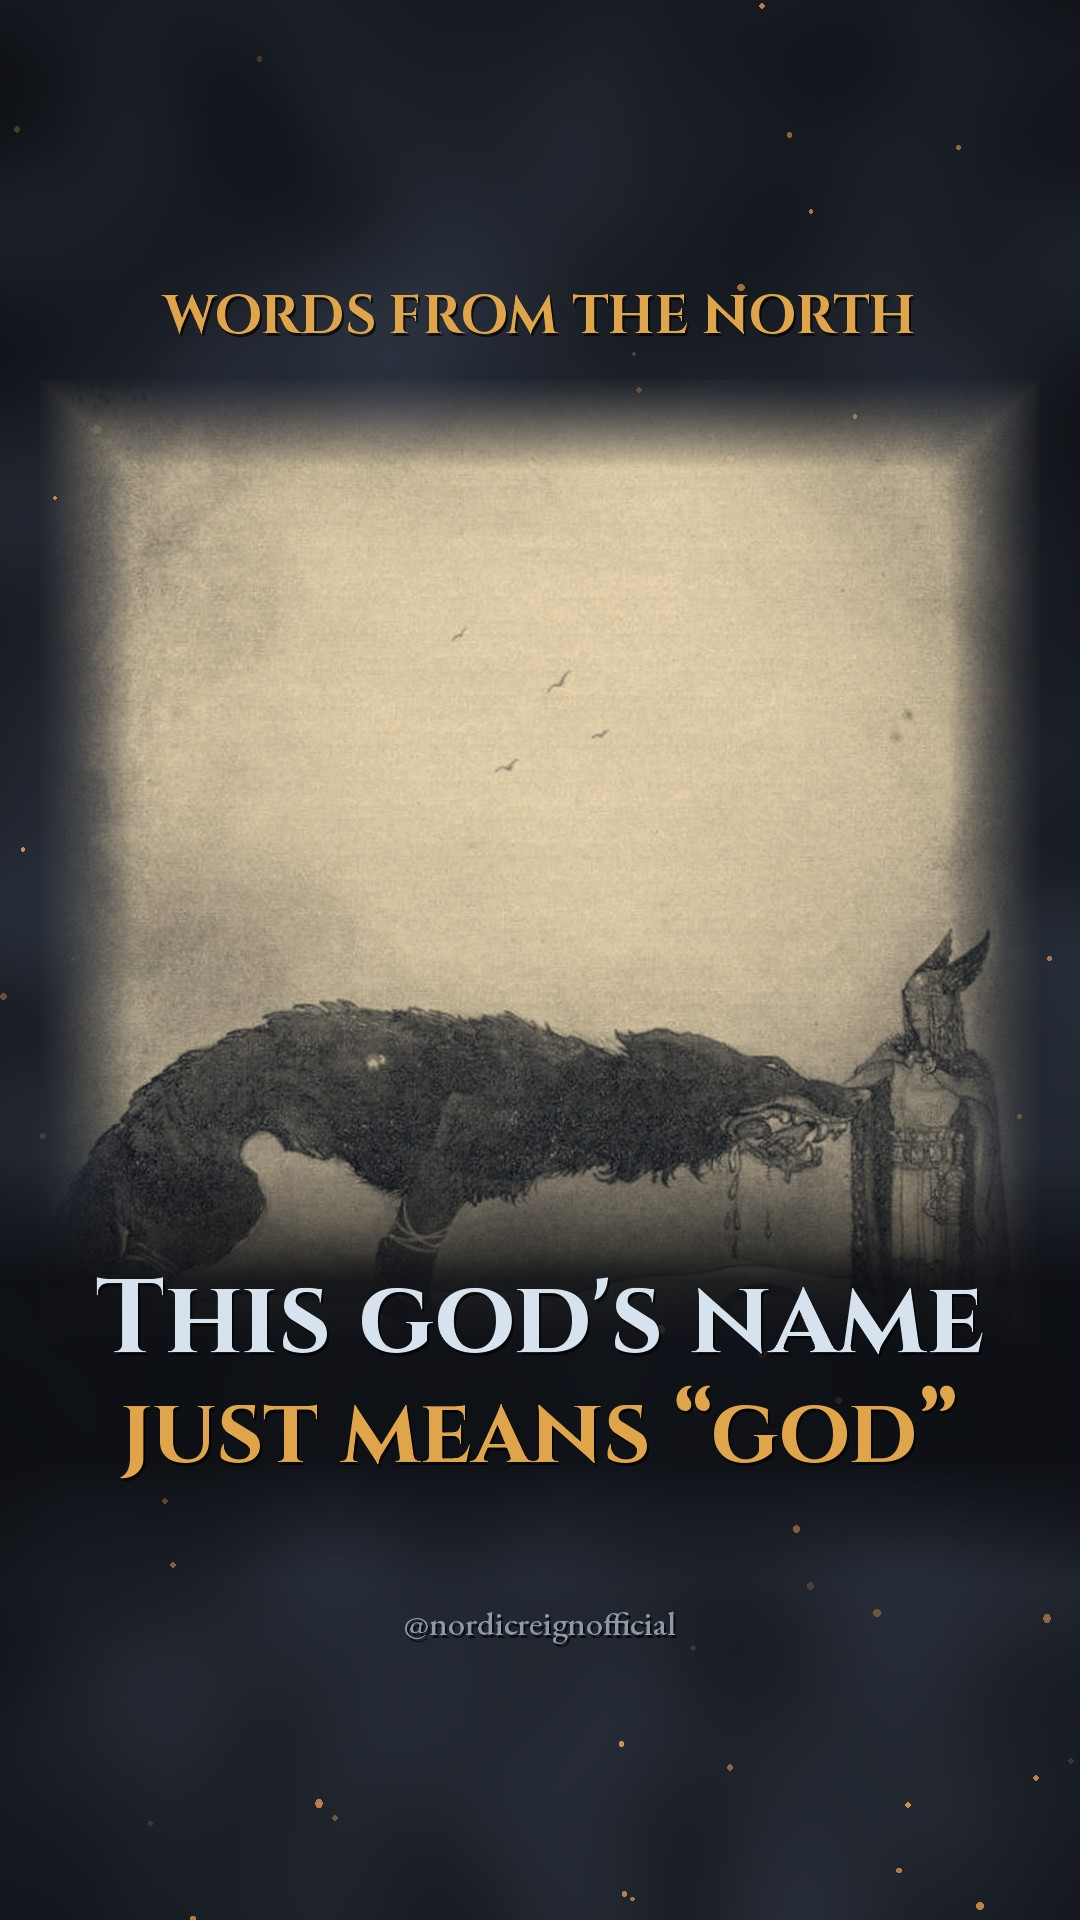
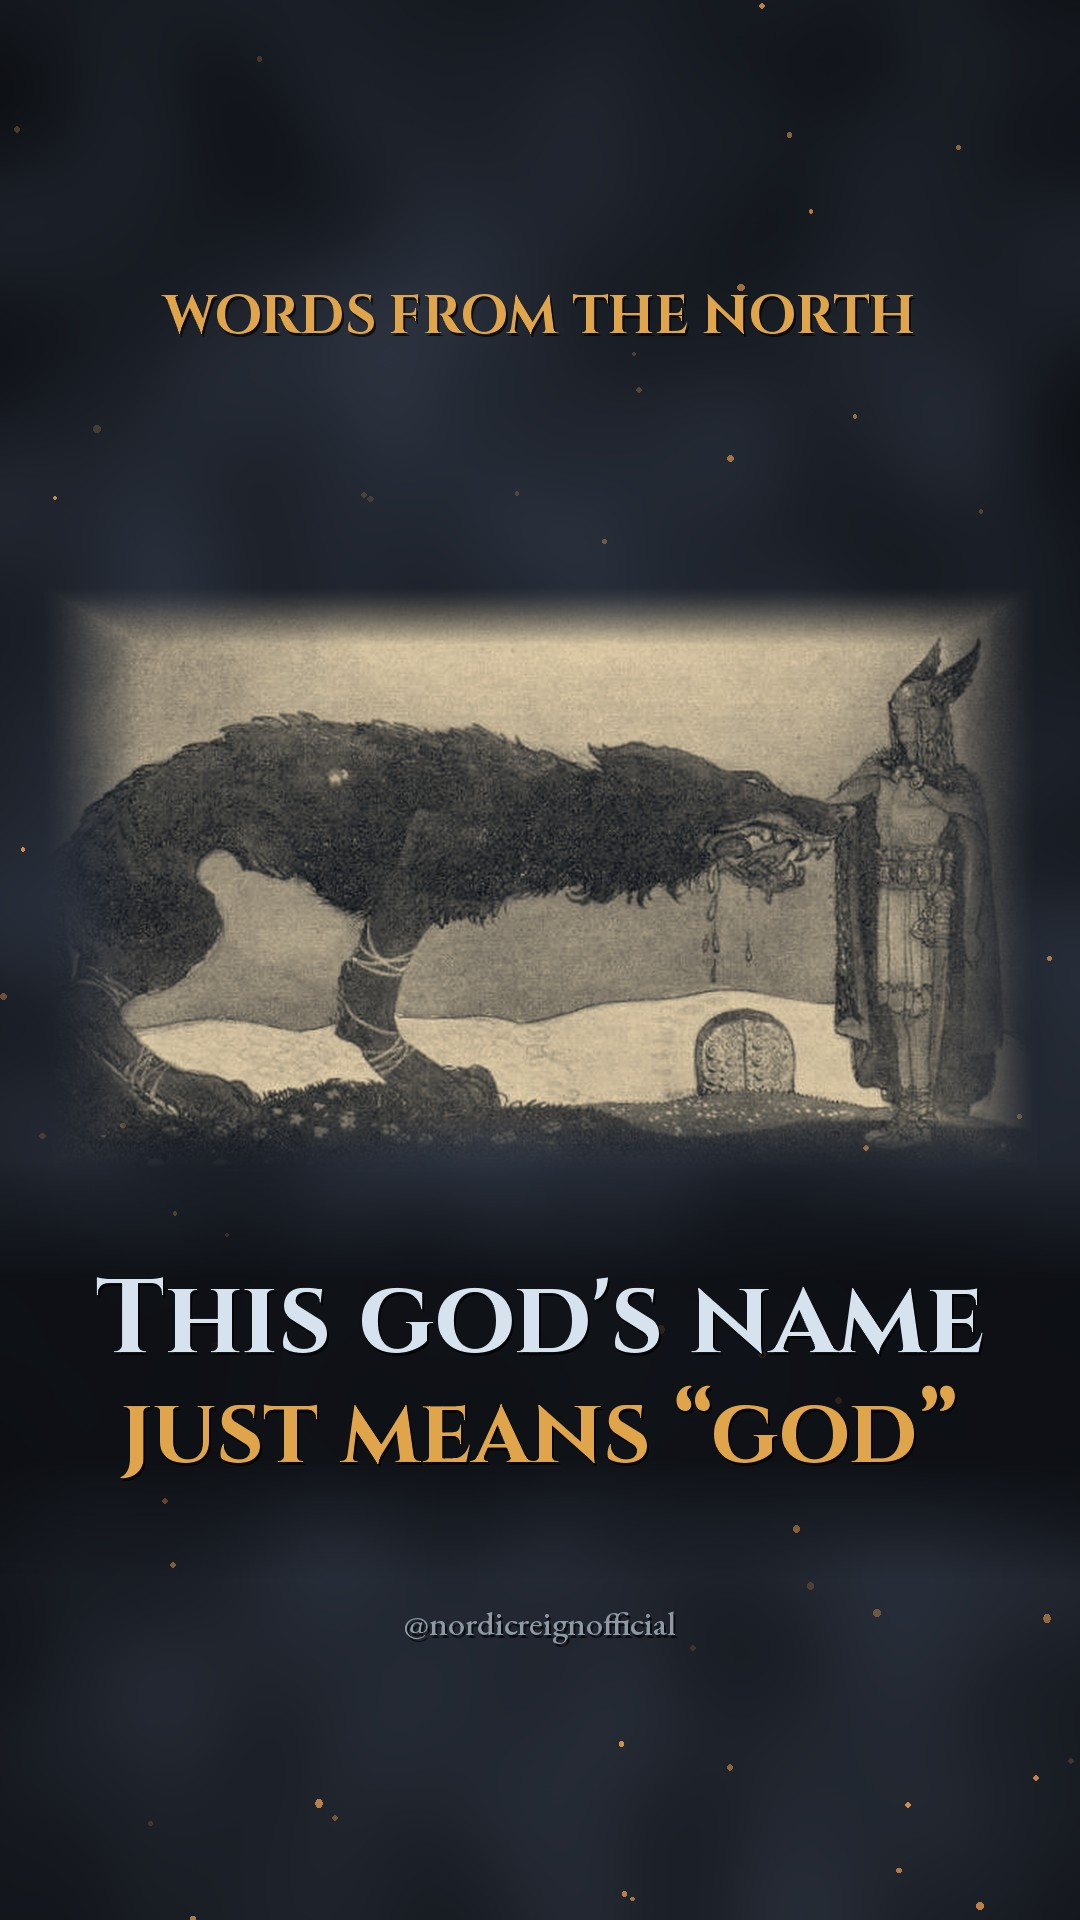
Cover 19 Nov: crop Tyr painting to wolf and god
Claude-Session: https://claude.ai/code/session_01Hsv6c4ziS5CPkgouEFsbvY

diff --git a/engine/covers.py b/engine/covers.py
@@ -41,8 +41,10 @@ COVERS = [
 
 def art(img, a):
     if isinstance(a, str):
-        foc = (0.0, 0.2) if "bauer_tyr" in a else (0.5, 0.4)
-        P = nr.Painting(a, 1000, 960, cy=860, zoom=0.04, feather=0.10, focus=foc)
+        if "bauer_tyr" in a:  # mostly empty sky: crop to the wolf and Tyr, as in v01
+            P = nr.Painting(a, 1000, 590, cy=880, zoom=0.0, feather=0.10, crop=(40, 395, 733, 800))
+        else:
+            P = nr.Painting(a, 1000, 960, cy=860, zoom=0.04, feather=0.10, focus=(0.5, 0.4))
         P.draw(img, 2.0, 0.0, 1.0, dur=4.0)
         return
     kind, val = a
